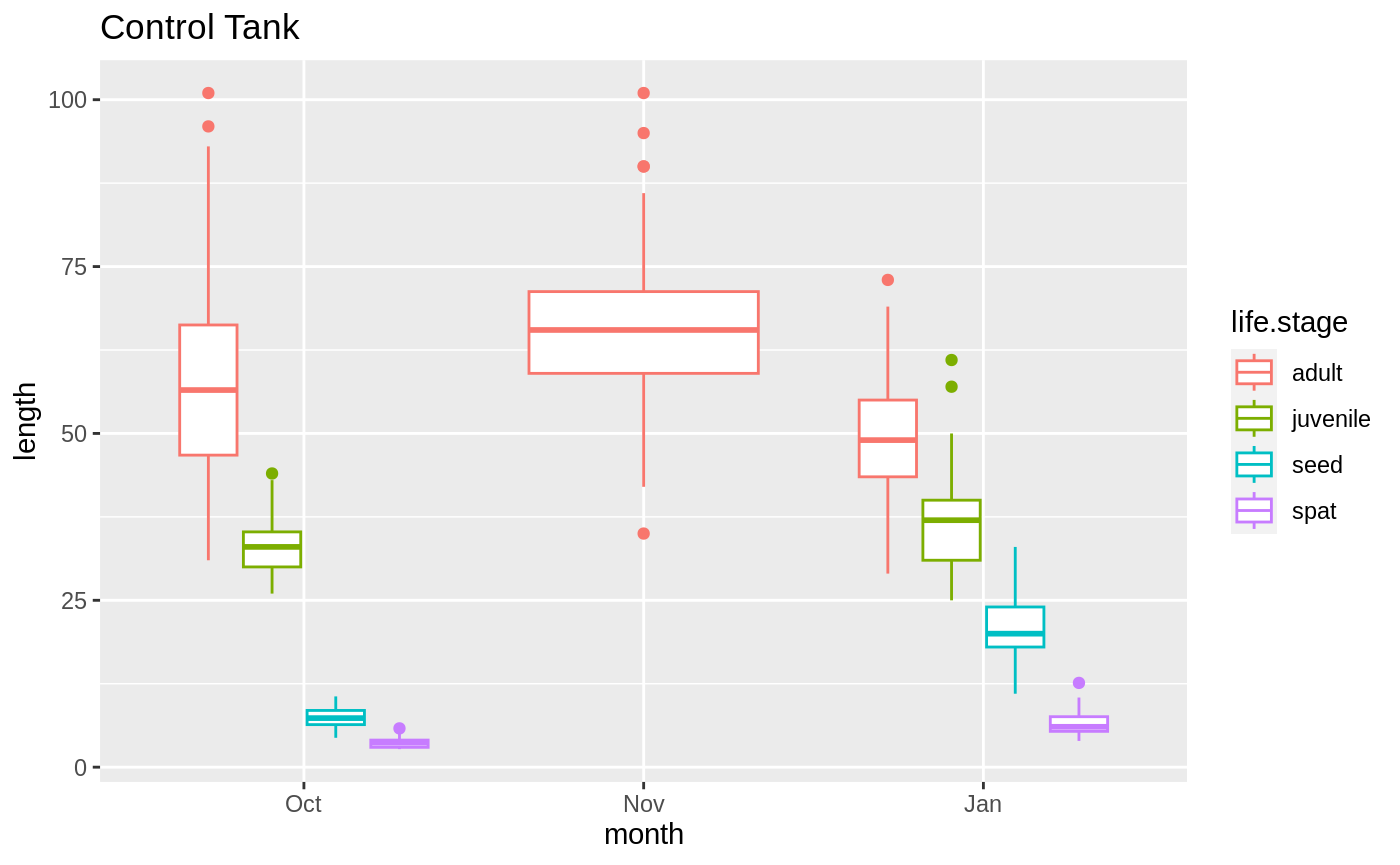
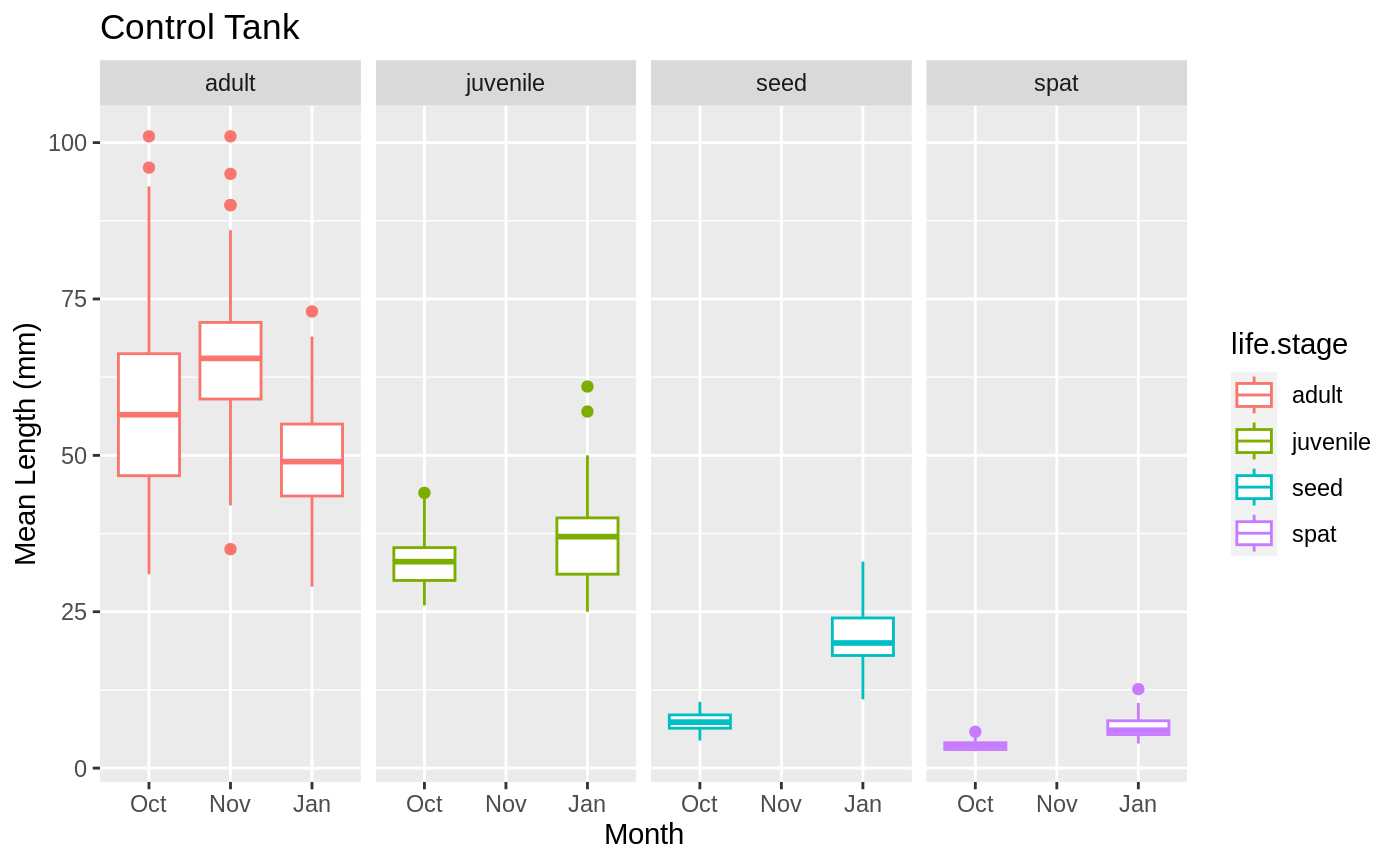
minor tweaks

diff --git a/_posts/2024-02-13-plotting-growth.md b/_posts/2024-02-13-plotting-growth.md
@@ -1,7 +1,7 @@
 ---
 layout: post
 title: Plotting growth
-subtitle: Tuesdat
+subtitle: Tuesday
 tags: Thesis
 comments: true
 ---
@@ -23,12 +23,19 @@ i_control_data$month <- factor(i_control_data$month, levels = month_order)
 #plotting
 library(ggplot2)
 ggplot(i_treatment_data, aes(month)) +
-  geom_boxplot(aes(y= length, colour= life.stage)) +
-  ggtitle("Treatment Tank")
-#another!
+    geom_boxplot(aes(y= length, colour= life.stage))+
+    facet_grid(~life.stage)+
+    ggtitle("Treatment Tank")+
+    ylab("Mean Length (mm)")+
+    xlab("Month")
+
 ggplot(i_control_data, aes(month)) +
-  geom_boxplot(aes(y= length, colour= life.stage)) +
-  ggtitle("Control Tank")
+    geom_boxplot(aes(y= length, colour= life.stage)) +
+    facet_grid(~life.stage)+
+    ggtitle("Control Tank")+
+    ylab("Mean Length (mm)")+
+    xlab("Month")
+
 #percent mortality
 total_dead <- length(size_data[size_data$notes == "dead 1-31-24" & size_data$month == "Jan", ]$tag)
 total_juvenile_t <- length(i_treatment_data[i_treatment_data$life.stage == "juvenile", ]$tag)
